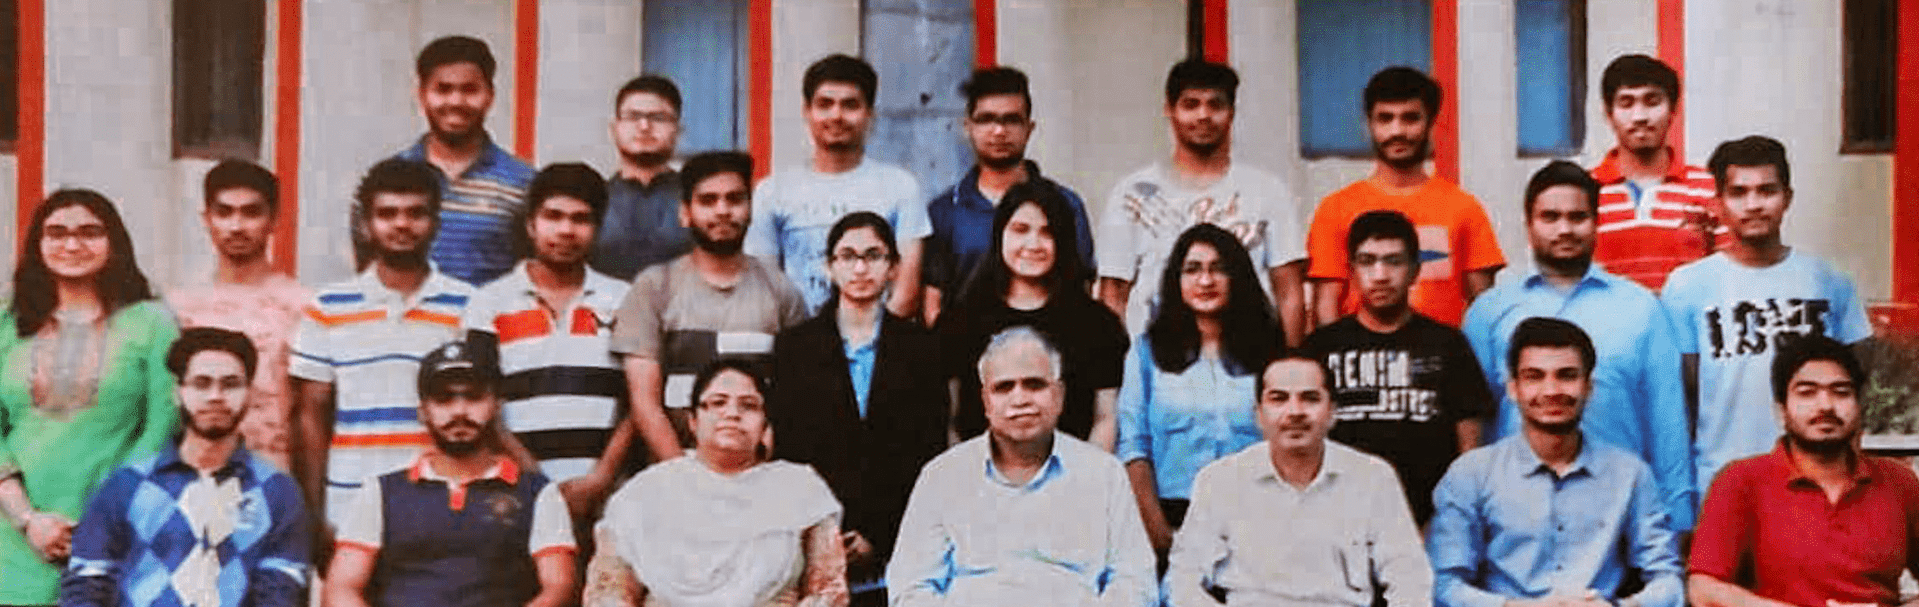
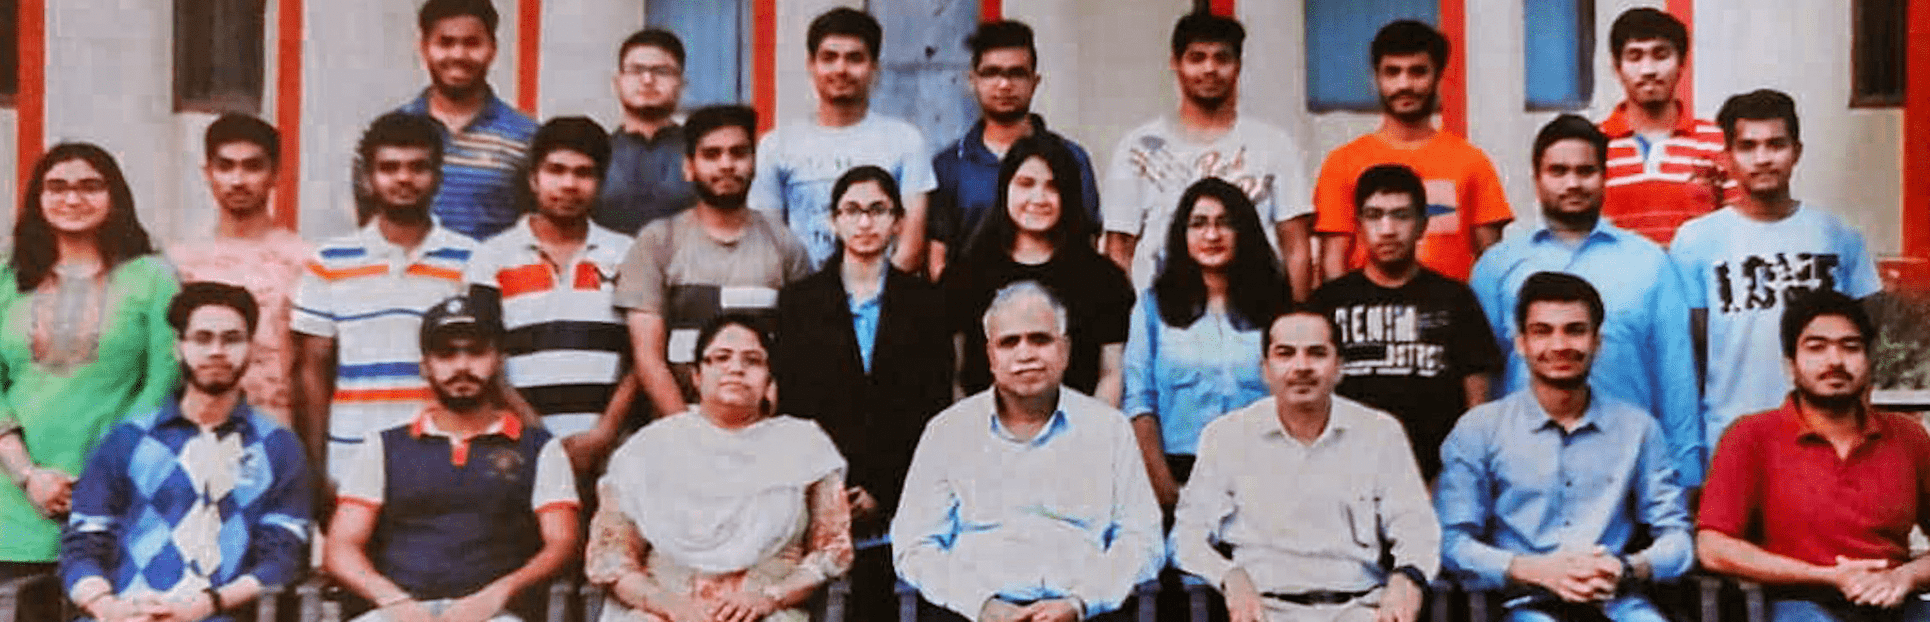
added bg img in standalone page

diff --git a/website/index.html b/website/index.html
@@ -189,8 +189,8 @@
                     <div class="text d-flex align-items-center">
                         <div class="home-text text-black height1">
                             <p><span style="font-size: 30px;"><strong><span class ="externalheading">WElCOME TO LEAD SOCIETY</span></strong></span></p>
-                            <p><strong><span class="capitals">LEARN</span><span class="smalls"></span><span class="pipestyles"><strong>|</strong><span class="capitals">EMERGE<span class="smalls"><span class="pipestyles">|</span></p>
-                            <p><strong><span class="capitals">ASPIRE</span><span class="smalls"></span><span class="pipestyles"><strong>|</strong><span class="capitals">DISCOVER<span class="smalls"><span class="pipestyles">|</span></p>
+                            <p><strong><span class="capitals">L</span><span class="smalls">EARN</span><span class="pipestyles"><strong>|</strong><span class="capitals">E<span class="smalls">MERGE<span class="pipestyles">|</span></p>
+                            <p><strong><span class="capitals">A</span><span class="smalls">SPIRE</span><span class="pipestyles"><strong>|</strong><span class="capitals">D<span class="smalls">ISCOVER<span class="pipestyles">|</span></p>
                             <a href="#blog" class="btn btn-slider pink-btn rounded-pill">What do we do?</a>
                         </div>
                     </div>

diff --git a/website/pages/css/style.css b/website/pages/css/style.css
@@ -1510,7 +1510,7 @@ li.footer_list .gmail:hover {
 .header-img {
     background: url(../img/leadbackground_img.png);
     background-attachment: fixed;
-    height: 800px;
+    height: 600px;
     position: relative;
     background-size: cover;
     background-position: bottom;
